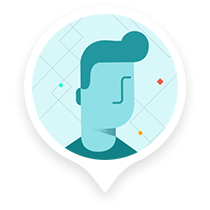
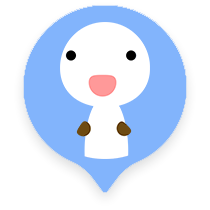
优化代码；替换地图头像

diff --git a/pages/profile/profile.js b/pages/profile/profile.js
@@ -1,29 +1,21 @@
-// pages/profile/profile.js
 Page({
 
-  /**
-   * 页面的初始数据
-   */
   data: {
-    title: '',
-    nickName: "",
-    gender: 0,
-    avatarUrl: "",
-    address: "",
-    contact: "这是联系方式啊",
-    user: {}
+    user: {
+      title: '',
+      nickName: '',
+      gender: 0,
+      avatarUrl: '',
+      address: '',
+      contact: '',
+    }
   },
 
-  /**
-   * 生命周期函数--监听页面加载
-   */
   onLoad: function(options) {
     console.log("资料页面：" + options.user)
     var user = JSON.parse(options.user)
     //设置用户数据
-    this.setData({
-      user: user
-    })
+
     var title
     switch (parseInt(user.userType)) {
       case 1:
@@ -43,12 +35,14 @@ Page({
         break
     }
     this.setData({
-      avatarUrl: user.avatarUrl,
-      gender: user.gender,
-      nickName: user.nickName,
-      address: user.address + "--" + user.addressName,
-      contact: user.contact,
-      title: title
+      user: {
+        avatarUrl: user.avatarUrl,
+        gender: user.gender,
+        nickName: user.nickName,
+        address: user.address + "--" + user.addressName,
+        contact: user.contact,
+        title: title
+      }
     })
   },
 
